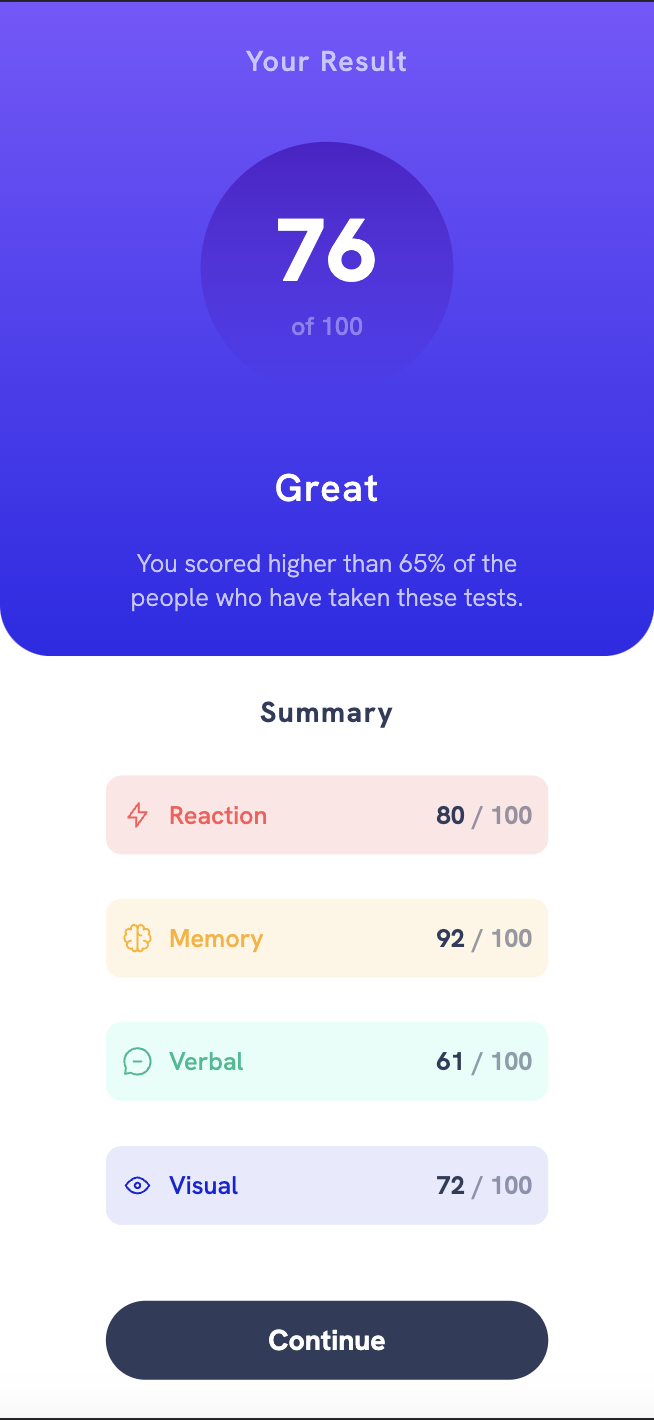
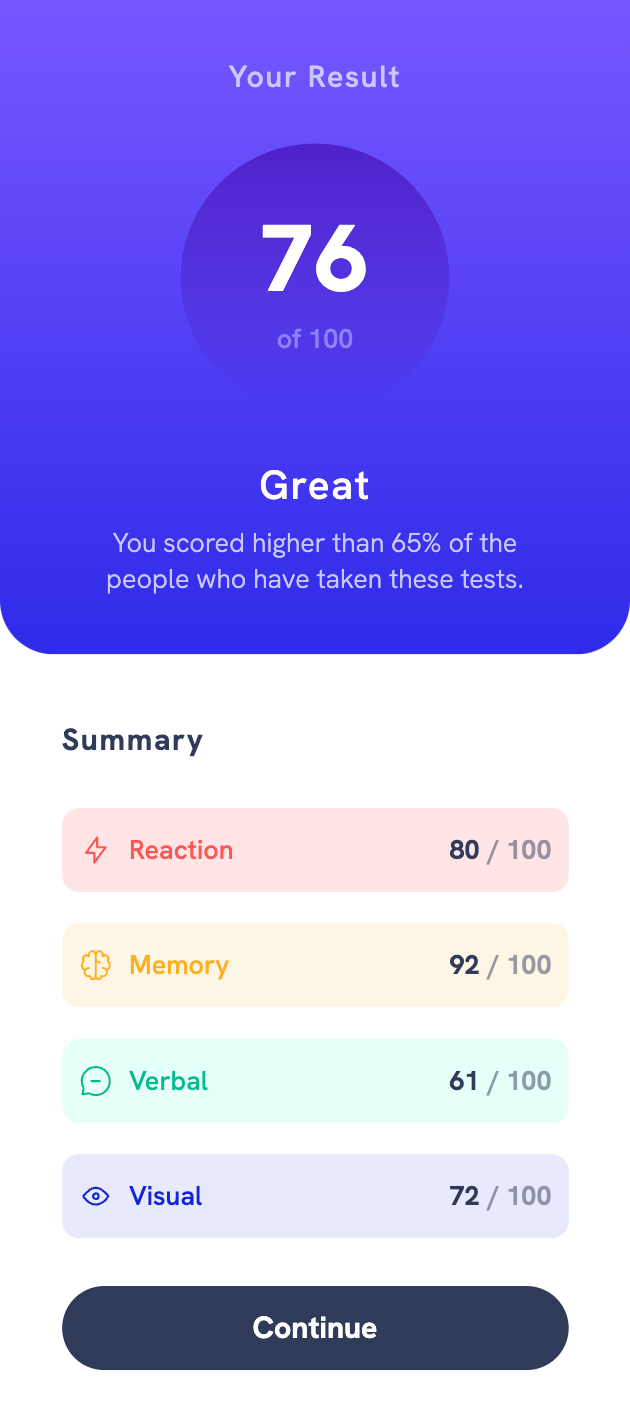
Fixed minor bugs

diff --git a/src/pages/Results.jsx b/src/pages/Results.jsx
@@ -1,4 +1,4 @@
-import { Wrapper, Title } from './results.styles';
+import { Wrapper } from './results.styles';
 import Category from '../components/category/category.component';
 import Button from '../components/button/button.component';
 
@@ -6,37 +6,37 @@ import data from '../data';
 
 const Results = () => {
   return (
-    <Wrapper>
-      <div className='container'>
-        <div className='box'>
-          <div className='box-1'>
-            <h6>Your Result</h6>
-            <div className='circle'>
-              <h1>76</h1>
-              <p>of 100</p>
-            </div>
-            <h5>Great</h5>
-            <p className='analyze-text'>
-              You scored higher than 65% of the people who have taken
-              these tests.
-            </p>
+    <Wrapper className='full-page'>
+      <div className='box'>
+        <div className='box-1'>
+          <h6>Your Result</h6>
+          <div className='circle'>
+            <h1>76</h1>
+            <p>of 100</p>
           </div>
-          <div className='box-2'>
-            <Title>Summary</Title>
-            {data.map((category) => {
-              return (
-                <Category
-                  key={category.category}
-                  title={category.category}
-                  svgLogo={category.icon}
-                  score={category.score}
-                  textColor={category.textColor}
-                  categoryColor={category.backgroundColor}
-                />
-              );
-            })}
-            <Button />
+          <h5>Great</h5>
+          <p className='analyze-text'>
+            You scored higher than 65% of the people who have taken
+            these tests.
+          </p>
+        </div>
+        <div className='box-2'>
+          <div className='title-box'>
+            <h6 className='title'>Summary</h6>
           </div>
+          {data.map((category) => {
+            return (
+              <Category
+                key={category.category}
+                title={category.category}
+                svgLogo={category.icon}
+                score={category.score}
+                textColor={category.textColor}
+                categoryColor={category.backgroundColor}
+              />
+            );
+          })}
+          <Button />
         </div>
       </div>
     </Wrapper>

diff --git a/src/pages/results.styles.jsx b/src/pages/results.styles.jsx
@@ -1,29 +1,16 @@
 import styled from 'styled-components';
 
-export const Title = styled.h6`
-  font-size: var(--heading-m);
-  color: var(--dark-gray-blue);
-
-  @media (max-width: 660px) {
-    justify-self: center;
-  }
-`;
-
 export const Wrapper = styled.section`
-  .container {
-    width: 100vw;
-    height: 100vh;
-    display: grid;
-    justify-content: center;
-    align-items: center;
-  }
+  display: grid;
+  justify-items: center;
+  align-items: center;
 
   .box {
     background: var(--white);
     box-shadow: var(--shadow-1);
-    border-radius: 32px;
     display: grid;
     grid-template-columns: repeat(2, 1fr);
+    border-radius: 32px;
   }
 
   .box-1 {
@@ -45,7 +32,11 @@ export const Wrapper = styled.section`
     border-bottom-right-radius: 32px;
     display: grid;
     align-items: center;
-    justify-items: start;
+    justify-items: center;
+  }
+
+  .title-box {
+    justify-self: start;
   }
 
   .circle {
@@ -97,14 +88,19 @@ export const Wrapper = styled.section`
     font-weight: 300;
   }
 
+  .title {
+    font-size: var(--heading-m);
+    color: var(--dark-gray-blue);
+  }
+
   @media (max-width: 660px) {
-    .container {
-      grid-template-columns: 1fr;
-      align-items: stretch;
-    }
+    grid-template-columns: 1fr;
+    justify-items: stretch;
+    align-items: stretch;
 
     .box {
       grid-template-columns: 1fr;
+      border-radius: 0;
     }
 
     .box-2 {
@@ -123,6 +119,7 @@ export const Wrapper = styled.section`
 
     .box-1 h6 {
       font-size: var(--mobile-heading-m);
+      margin-bottom: 0;
     }
 
     .circle h1 {
@@ -140,19 +137,32 @@ export const Wrapper = styled.section`
 
     .box-1 h5 {
       font-size: var(--mobile-heading-l);
+      margin-top: 0;
+      margin-bottom: 0;
     }
 
     .analyze-text {
       font-size: var(--mobile-p);
+      margin-top: -20px;
     }
 
     .box-2 h6 {
       font-size: var(--mobile-heading-m);
+      padding: 10px 0 10px 0;
+    }
+
+    .title-box {
+      width: 90%;
+      justify-self: center;
     }
 
     .box-2 p,
     span {
       font-size: var(--mobile-p);
+    }
+
+    .title {
+      justify-self: center;
     }
   }
 `;

diff --git a/src/components/category/category.component.jsx b/src/components/category/category.component.jsx
@@ -1,5 +1,5 @@
 import React from 'react';
-import Wrapper from './category.styles';
+import CategoryWrapper from './category.styles';
 
 const Category = ({
   title,
@@ -9,23 +9,22 @@ const Category = ({
   categoryColor,
 }) => {
   return (
-    <Wrapper>
-      <div
-        className='container'
-        style={{ background: categoryColor }}
-      >
-        <div className='info'>
-          <img src={svgLogo} alt={svgLogo} />
-          <p className='category-title' style={{ color: textColor }}>
-            {title}
-          </p>
-        </div>
-        <div className='score-result'>
-          <span>{score}</span>
-          <p className='score'>/ 100</p>
-        </div>
+    <CategoryWrapper
+      className='container'
+      style={{ background: categoryColor }}
+    >
+      <div className='info'>
+        <img src={svgLogo} alt={svgLogo} />
+        <p className='category-title' style={{ color: textColor }}>
+          {title}
+        </p>
       </div>
-    </Wrapper>
+
+      <div className='score-result'>
+        <span>{score}</span>
+        <p className='score'>/ 100</p>
+      </div>
+    </CategoryWrapper>
   );
 };
 

diff --git a/src/components/category/category.styles.jsx b/src/components/category/category.styles.jsx
@@ -1,18 +1,16 @@
 import styled from 'styled-components';
 
-const Wrapper = styled.section`
-  .container {
-    width: 280px;
-    height: 50px;
-    background: var(--primary-light-red);
-    border-radius: 10px;
+const CategoryWrapper = styled.section`
+  width: 100%;
+  height: 50px;
+  background: var(--primary-light-red);
+  border-radius: 10px;
 
-    display: flex;
-    justify-content: space-between;
-    align-items: center;
-    padding: 0px 10px 0px 10px;
-    margin-top: 20px;
-  }
+  display: flex;
+  justify-content: space-between;
+  align-items: center;
+  padding: 0px 10px 0px 10px;
+  margin-top: 20px;
 
   .info {
     display: flex;
@@ -23,6 +21,7 @@ const Wrapper = styled.section`
 
   .score-result {
     display: flex;
+    align-items: center;
   }
 
   span {
@@ -37,6 +36,11 @@ const Wrapper = styled.section`
     font-weight: 700;
     opacity: 0.5;
   }
+
+  @media (max-width: 660px) {
+    margin-top: 0px;
+    width: 90%;
+  }
 `;
 
-export default Wrapper;
+export default CategoryWrapper;

diff --git a/src/components/button/button.styles.jsx b/src/components/button/button.styles.jsx
@@ -27,6 +27,11 @@ const ButtonContainer = styled.button`
       hsl(241, 81%, 54%)
     );
   }
+
+  @media (max-width: 660px) {
+    margin-top: 10px;
+    width: 90%;
+  }
 `;
 
 export default ButtonContainer;

diff --git a/src/index.css b/src/index.css
@@ -109,6 +109,10 @@ img {
   object-fit: cover;
 }
 
+.full-page {
+  min-height: 100vh;
+}
+
 @media (max-width: 660px) {
   p {
     max-width: 16em;

diff --git a/guides/README-template.md b/guides/README-template.md
@@ -11,12 +11,8 @@ This is a solution to the [Results summary component challenge on Frontend Mento
 - [My process](#my-process)
   - [Built with](#built-with)
   - [What I learned](#what-i-learned)
-  - [Continued development](#continued-development)
   - [Useful resources](#useful-resources)
 - [Author](#author)
-- [Acknowledgments](#acknowledgments)
-
-**Note: Delete this note and update the table of contents based on what sections you keep.**
 
 ## Overview
 
@@ -43,65 +39,25 @@ Users should be able to:
 ### Built with
 
 - Semantic HTML5 markup
-- CSS custom properties
+- CSS
 - Flexbox
 - CSS Grid
-- Mobile-first workflow
 - [React](https://reactjs.org/) - JS library
-- [Next.js](https://nextjs.org/) - React framework
 - [Styled Components](https://styled-components.com/) - For styles
-
-**Note: These are just examples. Delete this note and replace the list above with your own choices**
 
 ### What I learned
 
-Use this section to recap over some of your major learnings while working through this project. Writing these out and providing code samples of areas you want to highlight is a great way to reinforce your own knowledge.
-
-To see how you can add code snippets, see below:
-
-```html
-<h1>Some HTML code I'm proud of</h1>
-```
-
-```css
-.proud-of-this-css {
-  color: papayawhip;
-}
-```
-
-```js
-const proudOfThisFunc = () => {
-  console.log('🎉');
-};
-```
-
-If you want more help with writing markdown, we'd recommend checking out [The Markdown Guide](https://www.markdownguide.org/) to learn more.
-
-**Note: Delete this note and the content within this section and replace with your own learnings.**
-
-### Continued development
-
-Use this section to outline areas that you want to continue focusing on in future projects. These could be concepts you're still not completely comfortable with or techniques you found useful that you want to refine and perfect.
-
-**Note: Delete this note and the content within this section and replace with your own plans for continued development.**
+During this project which is my first ever on FrontendMentor I learned
+to combine both CSS Grid for overall layout and stucture and Flexbox
+for some inner components.
 
 ### Useful resources
 
-- [Example resource 1](https://www.example.com) - This helped me for XYZ reason. I really liked this pattern and will use it going forward.
-- [Example resource 2](https://www.example.com) - This is an amazing article which helped me finally understand XYZ. I'd recommend it to anyone still learning this concept.
+- [CSS Grid](https://www.youtube.com/watch?v=0xMQfnTU6oo) - This helped me getting comfortable working with CSS Grid.
+- [Flexbox](https://www.youtube.com/watch?v=3YW65K6LcIA&t=9s) - This helped me getting comfortable working with Flebox.
 
 **Note: Delete this note and replace the list above with resources that helped you during the challenge. These could come in handy for anyone viewing your solution or for yourself when you look back on this project in the future.**
 
 ## Author
 
-- Website - [Add your name here](https://www.your-site.com)
-- Frontend Mentor - [@yourusername](https://www.frontendmentor.io/profile/yourusername)
-- Twitter - [@yourusername](https://www.twitter.com/yourusername)
-
-**Note: Delete this note and add/remove/edit lines above based on what links you'd like to share.**
-
-## Acknowledgments
-
-This is where you can give a hat tip to anyone who helped you out on this project. Perhaps you worked in a team or got some inspiration from someone else's solution. This is the perfect place to give them some credit.
-
-**Note: Delete this note and edit this section's content as necessary. If you completed this challenge by yourself, feel free to delete this section entirely.**
+- Frontend Mentor - [@abucan](https://www.frontendmentor.io/profile/abucan)
